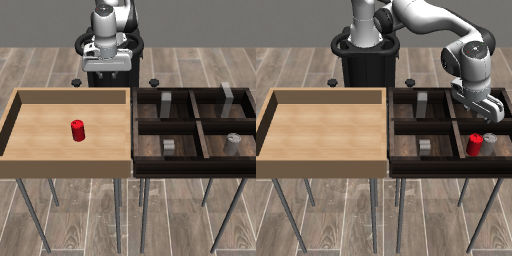
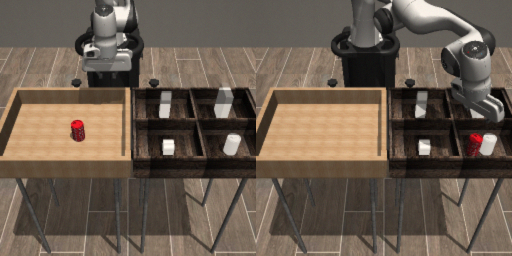
Docs and README for master: robomimic plus MimicGen on MuJoCo Warp, with its own renderer
- State plainly that this is no longer a faithful re-implementation of robomimic:
  MimicGen tasks and data, different physics, re-simulated demos, its own images
- Describe the pixels mode's ray-traced look and RENDER_VERSION
- docs/images.py renders through the pixels mode; regenerate the 5 task images and
  add one per MimicGen family

diff --git a/docs/images.py b/docs/images.py
@@ -1,6 +1,7 @@
-"""Render the task images of `docs/tasks.md`: the first and last state of each task's first released demo.
+"""Render the task images of `docs/tasks.md`: the first and last state of each task's first released demo, as the
+pixels mode observes them.
 
-    MUJOCO_GL=egl uv run --extra video python docs/images.py
+    uv run --extra video python docs/images.py
 """
 import argparse
 from pathlib import Path
@@ -9,24 +10,44 @@ import h5py
 import numpy as np
 from PIL import Image
 
+import jax
+
 from robomimic.data import registry
-from robomimic.env import RobomimicPOMDP
+from robomimic.env import Pixels, RobomimicPOMDP
 
 DATASETS = {"lift": "lift/ph", "can": "can/ph", "square": "square/mh", "transport": "transport/ph", "tool_hang": "tool_hang/ph"}
+# one variant of each MimicGen task family, named after the family
+MIMICGEN = {
+    "stack": "stack_d0", "stack_three": "stack_three_d0", "square_d": "square_d0", "threading": "threading_d0",
+    "coffee": "coffee_d0", "three_piece_assembly": "three_piece_assembly_d0", "hammer_cleanup": "hammer_cleanup_d0",
+    "mug_cleanup": "mug_cleanup_d0", "kitchen": "kitchen_d0", "nut_assembly": "nut_assembly_d0",
+    "pick_place": "pick_place_d0", "coffee_preparation": "coffee_preparation_d0",
+}
 CAMERAS = {"tool_hang": "sideview"}
+
+
+def _demo(path):
+    with h5py.File(path, "r") as f:
+        demo = f["data/demo_0"]
+        return demo["states"][()], demo.attrs["model_file"]
+
+
+def _render(task, path, out, size):
+    states, model = _demo(path)
+    camera = CAMERAS.get(task, "agentview")
+    env = RobomimicPOMDP(task, model_xml=model, observation=Pixels((camera,), size, size), max_worlds=1)
+    observe = jax.jit(lambda flat: env.observe(None, env.state_from_flat(flat), None))
+    frames = [np.asarray(observe(states[t])) for t in (0, -1)]
+    Image.fromarray(np.concatenate(frames, axis=1)).save(out, optimize=True)
+    print(f"wrote {out}")
 
 
 def main(args):
     args.out.mkdir(parents=True, exist_ok=True)
     for task, dataset in DATASETS.items():
-        with h5py.File(registry.DATA_DIR / dataset / "demo_v15.hdf5", "r") as f:
-            demo = f["data/demo_0"]
-            states, model = demo["states"][()], demo.attrs["model_file"]
-        env = RobomimicPOMDP(task, model_xml=model, max_worlds=1)
-        camera = CAMERAS.get(task, "agentview")
-        frames = [env.render_flat(states[t], camera_name=camera, height=args.size, width=args.size) for t in (0, -1)]
-        Image.fromarray(np.concatenate(frames, axis=1)).save(args.out / f"{task}.png", optimize=True)
-        print(f"wrote {args.out / f'{task}.png'}")
+        _render(task, registry.DATA_DIR / dataset / "demo_v15.hdf5", args.out / f"{task}.png", args.size)
+    for name, task in MIMICGEN.items():
+        _render(task, registry.MIMICGEN_DATA_DIR / registry.MIMICGEN_DATASETS[task], args.out / f"{name}.png", args.size)
 
 
 if __name__ == "__main__":

diff --git a/docs/tasks.md b/docs/tasks.md
@@ -1,9 +1,10 @@
 # Tasks
 
-The five robomimic simulation tasks as POMDPs, made with `jax_pomdps.make("robomimic.env:<name>")`. Every task
-is robosuite's: its scene, robots, controller, observations, reward, and success check, re-expressed in JAX on
-MuJoCo Warp. The quotes are robosuite v1.5's docstrings; the images show the first and last state of each
-task's first released demonstration.
+robomimic's five simulation tasks and MimicGen's 26 task variants as POMDPs, made with
+`jax_pomdps.make("robomimic.env:<name>")`. Each task's scene, robots, controller, observations, reward, and success
+check are robosuite's or MimicGen's, re-expressed in JAX on MuJoCo Warp. The quotes are robosuite v1.5's docstrings;
+the images show the first and last state of each task's first released demonstration as the pixels mode renders
+them, from the camera of its image datasets.
 
 Names follow [jax_gym](https://github.com/mishmish66/jax-gym)'s scheme: dashes join words, and slashes add
 variants, the reward first and then the observation. Each task `<task>` has a dense reward and `<task>/sparse`
@@ -21,6 +22,14 @@ the datasets' sparse reward. Each such `name` observes robomimic's low-dim obser
   are from the positions its controller pulls their nullspace toward (the arm's positions at reset). The next observation, reward,
   and done follow from it and the action; it leaves out only the solver's warm start, as MuJoCo's physics state
   does.
+
+The images are this package's own, not robosuite's: MuJoCo Warp's ray tracer renders the scene's lights with
+shadows under a dim headlight, at twice the resolution averaged down, and then applies a camera's defocus,
+vignetting, warm white balance, and sensor noise seeded from the world's state, so the same state renders the same
+image batched or unbatched. Boxes and other primitives show their textures sampled where each ray hits them, the
+table top is dark wood, and robosuite's end-effector target markers are not drawn. The images therefore do not match
+robomimic's image datasets, which robosuite rendered with OpenGL; depth does. `robomimic.env.render.RENDER_VERSION`
+(2) identifies this look, so that images rendered by a different version can be told apart.
 
 `RobomimicPOMDP(task, observation=..., reward=...)` builds the same POMDPs: `observation` is `"low-dim"`,
 `"prp"`, `"mkv"`, or `Pixels(cameras, height, width, proprio)` for any cameras, and `reward` is `"dense"` (the
@@ -201,6 +210,8 @@ They also differ from the robomimic tasks in these ways:
 
 ### `stack-d0`, `stack-d1`
 
+<img src="images/stack.png" alt="Stack D0: the first and last state of demo 0" loading="lazy">
+
 A Panda arm stacks a red cube on a green one, both placed at random on the table, at any yaw, within 8 cm of its
 center in D0 and 20 cm in D1. **Success**: the red cube is not grasped, its center is more than 4 cm above the table,
 and it touches the green cube. **Object observation** (23): each cube's position and quaternion, each cube's position
@@ -209,6 +220,8 @@ the red cube, lifting it over the green cube, and lowering it onto it; a red cub
 counts as held. **Shaped reward**: robosuite's staged reward, halved.
 
 ### `stack-three-d0`, `stack-three-d1`
+
+<img src="images/stack_three.png" alt="Stack Three D0: the first and last state of demo 0" loading="lazy">
 
 A Panda arm stacks cube A (4 cm) on cube B (5 cm), then cube C (4 cm) on cube A. The three cubes are placed at random
 on the table, at any yaw, within 10 cm of its center in D0 and 20 cm in D1. **Success**: neither cube A nor cube C is
@@ -219,6 +232,8 @@ cube A on cube B, as in `stack-d0`; half, once A is released on B, for stacking 
 
 ### `square-d0`, `square-d1`, `square-d2`
 
+<img src="images/square_d.png" alt="Square D0: the first and last state of demo 0" loading="lazy">
+
 `square` at MimicGen's initial states: a Panda arm slides the square nut down over the square peg. In D0 the nut and
 peg start as in `square`. In D1 the peg stands at random in a 40 cm square and the round peg is removed; the nut starts
 at random in a 23 × 51 cm region, at any yaw, more than 13 cm from the peg. In D2, also without the round peg, the nut
@@ -227,6 +242,8 @@ and the peg each start at random within 25 cm of the table's center in x and y, 
 which add the peg's position. **Dense reward**: as in `square`. **Shaped reward**: robosuite's staged reward.
 
 ### `threading-d0`, `threading-d1`, `threading-d2`
+
+<img src="images/threading.png" alt="Threading D0: the first and last state of demo 0" loading="lazy">
 
 A Panda arm threads a needle through the ring of a tripod. In D0 the needle lies at random in a 15 × 10 cm region,
 at a yaw in [−120°, −60°], and the tripod stands at a fixed pose. In D1 the needle lies in a 25 × 10 cm region at a
@@ -237,6 +254,8 @@ position, quaternion, and pose relative to the gripper. **Dense reward**: reachi
 needle, and bringing its bar's center to the ring's.
 
 ### `coffee-d0`, `coffee-d1`, `coffee-d2`
+
+<img src="images/coffee.png" alt="Coffee D0: the first and last state of demo 0" loading="lazy">
 
 A Panda arm puts a coffee pod into a coffee machine's pod holder and closes the machine's lid; the lid starts open. In
 D0 the machine stands at a fixed pose and the pod starts at random within a 6 cm square. In D1 the machine stands at
@@ -251,6 +270,8 @@ the pod, reaching it, holding it, lifting it over the holder, and lowering it in
 as held; half for closing the lid once the pod is in.
 
 ### `three-piece-assembly-d0`, `three-piece-assembly-d1`, `three-piece-assembly-d2`
+
+<img src="images/three_piece_assembly.png" alt="Three Piece Assembly D0: the first and last state of demo 0" loading="lazy">
 
 A Panda arm drops piece 1, a square slab with a ridge on top, into the square hole of a base frame, then sets piece 2,
 which has a slot between two legs, over piece 1's ridge. In D0 the base lies at the table's center and the two pieces
@@ -268,6 +289,8 @@ half, once piece 1 rests in the base, for piece 2, carried the same way onto pie
 
 ### `hammer-cleanup-d0`, `hammer-cleanup-d1`
 
+<img src="images/hammer_cleanup.png" alt="Hammer Cleanup D0: the first and last state of demo 0" loading="lazy">
+
 A Panda arm pulls a drawer open, puts a hammer into it, and pushes the drawer closed. In D0 the drawer's cabinet stands
 at a fixed pose and the hammer lies at random in an 8 × 7 cm region, its handle along the x axis. In D1 the cabinet
 stands at random in a 20 × 10 cm region, at a yaw in [−30°, 30°], and the hammer lies in a 40 × 12 cm
@@ -281,6 +304,8 @@ within 15 cm above the bottom counting as held; and for reaching the handle and 
 
 ### `mug-cleanup-d0`, `mug-cleanup-d1`
 
+<img src="images/mug_cleanup.png" alt="Mug Cleanup D0: the first and last state of demo 0" loading="lazy">
+
 A Panda arm pulls a drawer open, puts a mug upright into it, and pushes the drawer closed. In D0 the drawer's cabinet
 stands at a fixed pose and the mug at random in a 30 × 15 cm region, at any yaw. In D1 the cabinet stands at random in
 a 20 × 10 cm region, at a yaw in [−30°, 30°], and the mug in a 40 × 15 cm region. **Success**: the drawer is
@@ -292,6 +317,8 @@ bottom, the carrying counting as far as the drawer is open, a mug released withi
 bottom, within 3 cm above resting, counting as held; a quarter, once the mug is in, for reaching the handle and pushing the drawer closed.
 
 ### `kitchen-d0`, `kitchen-d1`
+
+<img src="images/kitchen.png" alt="Kitchen D0: the first and last state of demo 0" loading="lazy">
 
 A Panda arm turns on a stove by its button, puts a pot on the stove and a piece of bread in the pot, moves the pot into
 a serving region, and turns the stove off. In D0 the stove, the button, and the serving region are at fixed poses; the
@@ -312,6 +339,8 @@ counts as held.
 
 ### `nut-assembly-d0`
 
+<img src="images/nut_assembly.png" alt="Nut Assembly D0: the first and last state of demo 0" loading="lazy">
+
 A Sawyer arm puts the square nut on the square peg and the round nut on the round peg, the nuts starting as in
 robosuite's NutAssembly. **Success**: each nut is within 3 cm of its peg horizontally, low on the peg, and the gripper
 has let go of it. **Sparse reward**: 0.5 per placed nut. **Object observation** (28): for each nut, the position,
@@ -321,6 +350,8 @@ their pegs and the one other nut furthest along, that one scaled by how upright 
 like the sparse reward.
 
 ### `pick-place-d0`
+
+<img src="images/pick_place.png" alt="Pick Place D0: the first and last state of demo 0" loading="lazy">
 
 A Sawyer arm moves a milk carton, a loaf of bread, a cereal box, and a can from one bin into their compartments of the
 other, the objects starting at random in the first bin at yaws in [0°, 90°]. **Success**: each object is inside its
@@ -332,6 +363,8 @@ standing or not, and the one other object furthest along, that one scaled by how
 scaled like the sparse reward.
 
 ### `coffee-preparation-d0`, `coffee-preparation-d1`
+
+<img src="images/coffee_preparation.png" alt="Coffee Preparation D0: the first and last state of demo 0" loading="lazy">
 
 A Panda arm sets a mug upright on the coffee machine's base plate, opens the machine's lid, pulls a drawer open, takes
 the pod from the drawer, puts it into the pod holder, and closes the lid. The lid and the drawer start closed, and the

diff --git a/docs/index.md b/docs/index.md
@@ -5,9 +5,15 @@
 > the demonstrations is theirs. The robosuite and robomimic parts stay under their MIT licenses
 > (`THIRD_PARTY_NOTICES.md`); only what is new is under the VibeCoded AI-Slop License (`LICENSE`).
 
-robomimic's five simulation tasks, Lift, Can, Square, Transport, and Tool Hang, as
-[jax_pomdps](https://github.com/mishmish66/jax-pomdps) POMDPs simulated by MuJoCo Warp, and the 1200 human
-demonstrations of the robomimic v1.5 datasets, transferred into this simulation so that every one succeeds here.
+robomimic's five simulation tasks, Lift, Can, Square, Transport, and Tool Hang, and MimicGen's 26 task variants,
+as [jax_pomdps](https://github.com/mishmish66/jax-pomdps) POMDPs simulated by MuJoCo Warp, with camera images from
+this package's own renderer. It ships the human demonstrations of every robomimic v1.5 ph and mh dataset and the
+26,000 demonstrations of MimicGen's core datasets, re-simulated here so that every one succeeds.
+
+This is no longer a faithful re-implementation of robomimic. It adds MimicGen's tasks and data, simulates
+everything with different physics, re-simulates every demonstration, and renders camera images of its own that do
+not look like robomimic's. Use it as a set of tasks and datasets in its own right; results on it are not results on
+robomimic.
 
 ```python
 import jax
@@ -25,15 +31,19 @@ obs = jax.jit(jax.vmap(env.observe))(keys, states, None)
   released datasets.
 - `robomimic.scripts`: command-line tools, run as `python -m robomimic.scripts.<name>`.
 
-## What differs from robosuite
+## What differs from robomimic and robosuite
 
 The controller, observations, rewards, and success checks follow robosuite v1.5, which recorded the v1.5
-datasets, and the scenes are robosuite's own models. The physics differ: MuJoCo Warp simulates the tasks with
+datasets, and the MimicGen tasks follow robosuite v1.4, which recorded MimicGen's; the scenes are their own models. The physics differ: MuJoCo Warp simulates the tasks with
 MuJoCo Playground's settings, a 5 ms timestep with implicitfast integration, no kinematics refresh between
 substeps, and no collisions of the arm links (the grippers still collide), with the robosuite models' contact
 solver settings. Recorded robosuite actions therefore do not reproduce their recorded trajectories here, which
-is why the demonstrations are transferred rather than replayed. Camera images come from the MuJoCo Warp ray
-tracer, shaded to approximate robosuite's OpenGL images.
+is why the demonstrations are transferred rather than replayed: each is re-simulated from its first state with
+actions searched to keep it on its recorded trajectory, and the few the search cannot bring to success are
+re-executed from their recorded gripper targets or, for two MimicGen demos, generated anew (see Data). Camera
+images come from the MuJoCo Warp ray tracer with shadows, antialiasing, and a camera's defocus, vignetting, white
+balance, and noise; they do not imitate robosuite's OpenGL images, so the image observations differ from robomimic's
+image datasets (see Tasks).
 
 ## Credits and licenses
 

diff --git a/README.md b/README.md
@@ -8,7 +8,12 @@ robomimic's five tasks (Lift, Can, Square, Transport, Tool Hang) and MimicGen's 
 Three, Square, Threading, Coffee, Three Piece Assembly, Hammer Cleanup, Mug Cleanup, Kitchen, Nut Assembly, Pick
 Place, Coffee Preparation, at their D0 to D2 initial-state distributions) as
 [jax_pomdps](https://github.com/mishmish66/jax-pomdps) POMDPs on MuJoCo Warp, with the human demonstrations of
-every robomimic v1.5 ph and mh dataset, and MimicGen's core datasets of every variant, transferred into them.
+every robomimic v1.5 ph and mh dataset, and MimicGen's core datasets of every variant, re-simulated in them so that
+every demo succeeds. Camera images come from the package's own ray-traced renderer, with shadows and camera
+effects, not from robosuite's OpenGL renderer.
+
+It is no longer a faithful re-implementation of robomimic: the physics, the demonstrations, and the images all
+differ from robomimic's, and it adds MimicGen's tasks. Treat it as its own benchmark.
 
 **[Documentation](https://mishmish66.github.io/robomimic-jax/)**: the tasks, the data, and the API.
 
